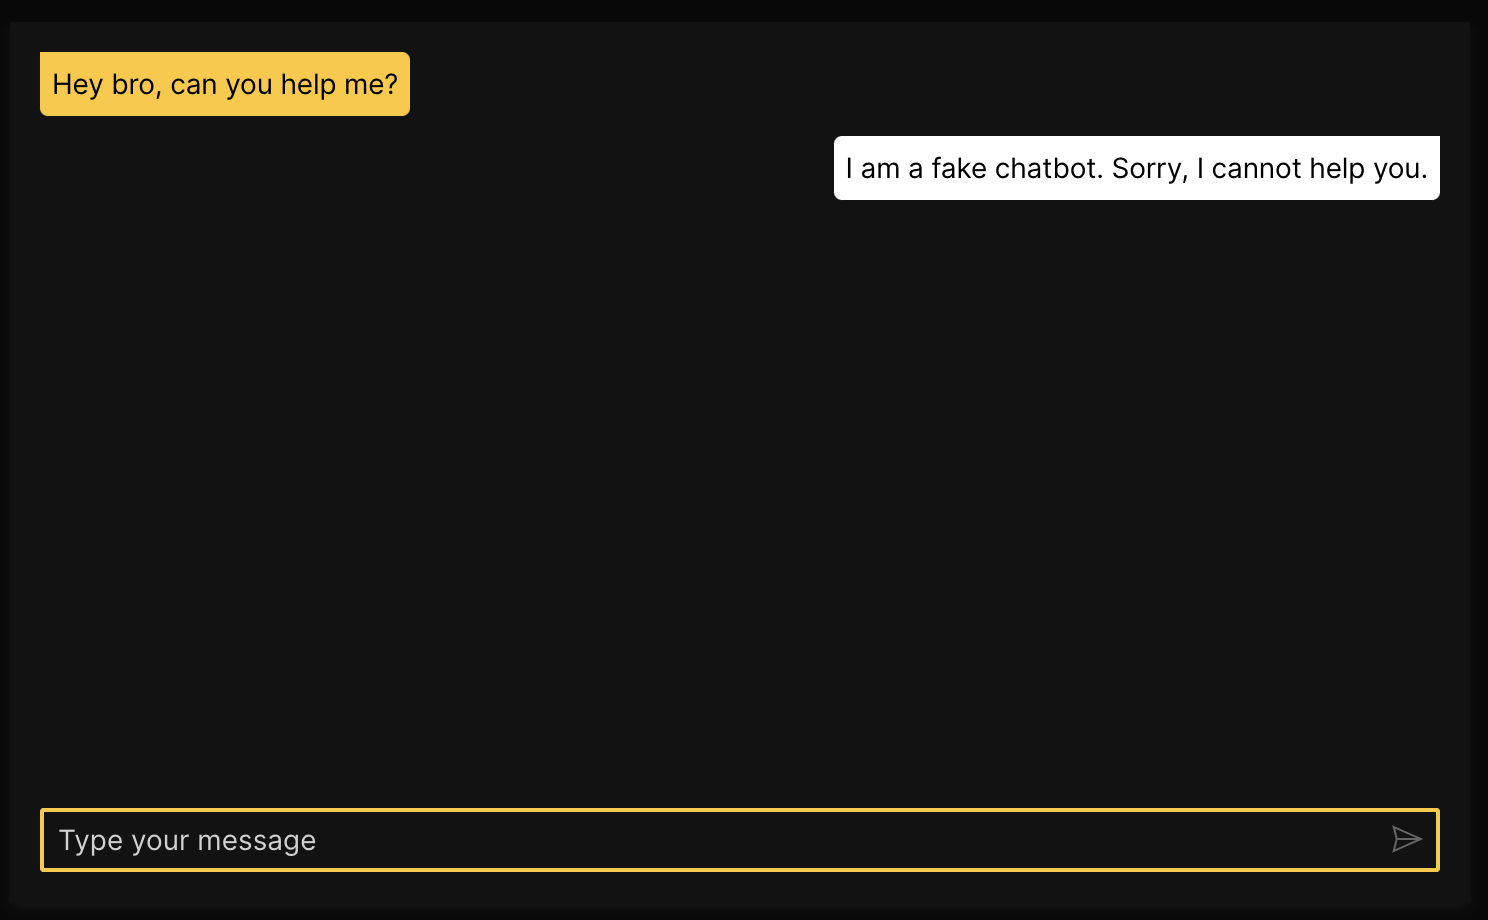
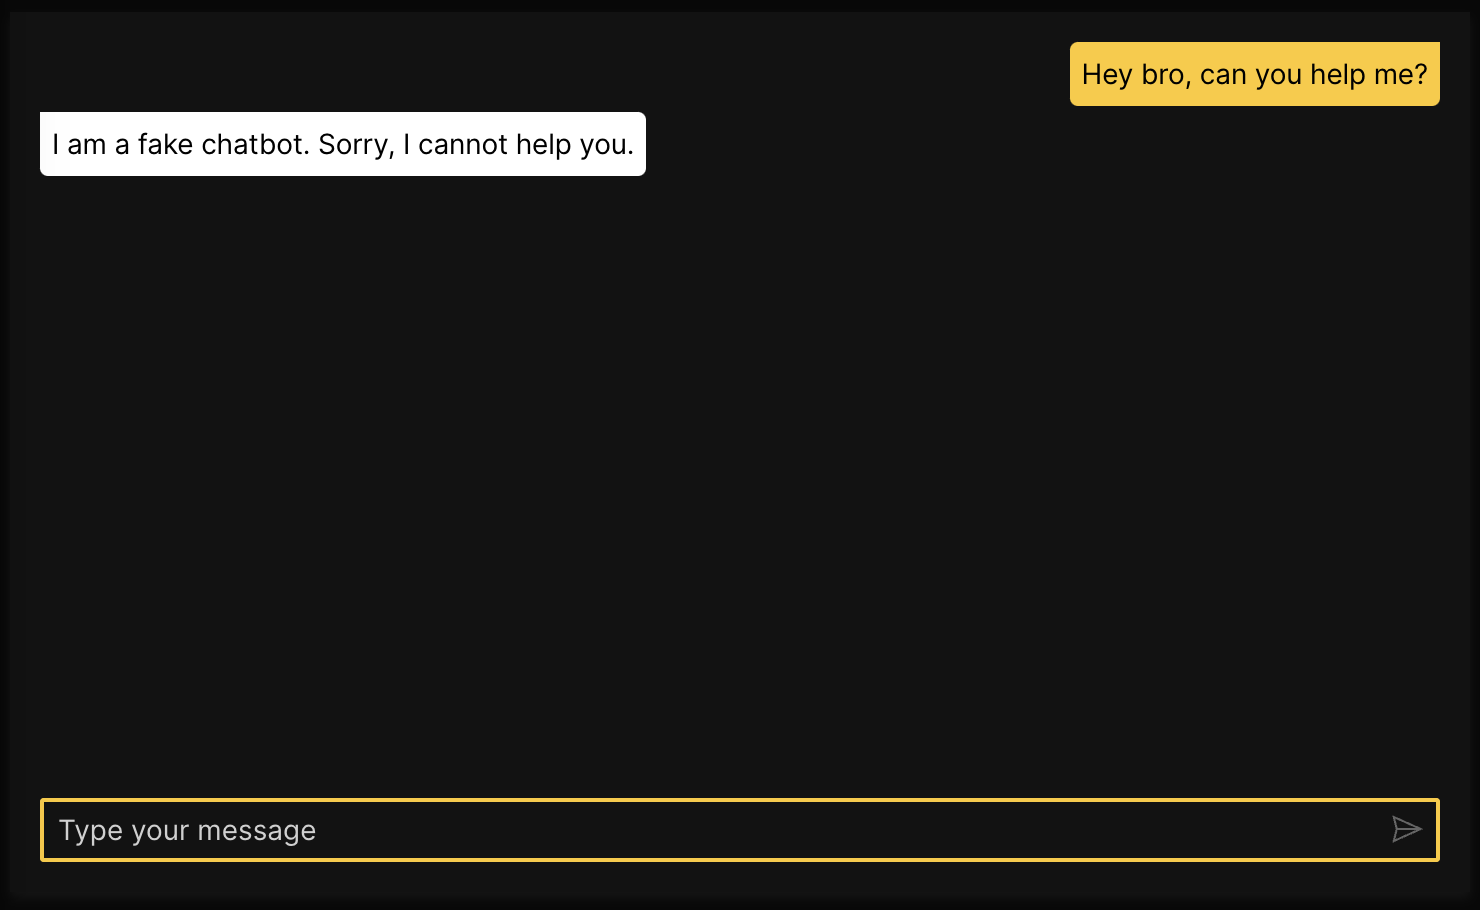
chore: Swap user and bot sides in ui.chatbot #1983 (#1995)

Changed region(s): [[0.5595, 0.0308, 0.9946, 0.2154], [0.0, 0.0308, 0.4351, 0.2154], [0.0311, 0.8615, 0.9946, 0.9538]]

diff --git a/ui/src/chatbot.test.tsx b/ui/src/chatbot.test.tsx
@@ -138,8 +138,8 @@ describe('XChatbot', () => {
     const { container } = render(<XChatbot model={{ name, data }} />)
 
     const messages = container.querySelectorAll('[class *="msg-"')
-    expect(window.getComputedStyle(messages[0], null).borderTopLeftRadius).toEqual('0px')
-    expect(window.getComputedStyle(messages[1], null).borderTopRightRadius).toEqual('0px')
+    expect(window.getComputedStyle(messages[0], null).borderTopRightRadius).toEqual('0px')
+    expect(window.getComputedStyle(messages[1], null).borderTopLeftRadius).toEqual('0px')
   })
 
   it('Renders properly rounded corners - 2 continuous messages', () => {
@@ -151,14 +151,14 @@ describe('XChatbot', () => {
     ]
     const { container } = render(<XChatbot model={{ name, data }} />)
     const messages = container.querySelectorAll('[class *="msg-"')
-    expect(window.getComputedStyle(messages[0], null).borderBottomLeftRadius).toEqual('0')
-    expect(window.getComputedStyle(messages[0], null).borderTopLeftRadius).toEqual('4px')
-    expect(window.getComputedStyle(messages[1], null).borderTopLeftRadius).toEqual('0')
-    expect(window.getComputedStyle(messages[1], null).borderBottomLeftRadius).toEqual('4px')
-    expect(window.getComputedStyle(messages[2], null).borderBottomRightRadius).toEqual('0')
-    expect(window.getComputedStyle(messages[2], null).borderTopRightRadius).toEqual('4px')
-    expect(window.getComputedStyle(messages[3], null).borderTopRightRadius).toEqual('0')
-    expect(window.getComputedStyle(messages[3], null).borderBottomRightRadius).toEqual('4px')
+    expect(window.getComputedStyle(messages[0], null).borderBottomRightRadius).toEqual('0')
+    expect(window.getComputedStyle(messages[0], null).borderTopRightRadius).toEqual('4px')
+    expect(window.getComputedStyle(messages[1], null).borderTopRightRadius).toEqual('0')
+    expect(window.getComputedStyle(messages[1], null).borderBottomRightRadius).toEqual('4px')
+    expect(window.getComputedStyle(messages[2], null).borderBottomLeftRadius).toEqual('0')
+    expect(window.getComputedStyle(messages[2], null).borderTopLeftRadius).toEqual('4px')
+    expect(window.getComputedStyle(messages[3], null).borderTopLeftRadius).toEqual('0')
+    expect(window.getComputedStyle(messages[3], null).borderBottomLeftRadius).toEqual('4px')
   })
 
   it('Renders properly rounded corners - 2+ continuous messages', () => {
@@ -172,18 +172,18 @@ describe('XChatbot', () => {
     ]
     const { container } = render(<XChatbot model={{ name, data }} />)
     const messages = container.querySelectorAll('[class *="msg-"')
-    expect(window.getComputedStyle(messages[0], null).borderBottomLeftRadius).toEqual('0')
-    expect(window.getComputedStyle(messages[0], null).borderTopLeftRadius).toEqual('4px')
+    expect(window.getComputedStyle(messages[0], null).borderBottomRightRadius).toEqual('0')
     expect(window.getComputedStyle(messages[0], null).borderTopRightRadius).toEqual('4px')
-    expect(window.getComputedStyle(messages[1], null).borderTopLeftRadius).toEqual('0')
-    expect(window.getComputedStyle(messages[1], null).borderBottomLeftRadius).toEqual('0')
-    expect(window.getComputedStyle(messages[2], null).borderTopLeftRadius).toEqual('0')
-    expect(window.getComputedStyle(messages[2], null).borderBottomLeftRadius).toEqual('4px')
-    expect(window.getComputedStyle(messages[3], null).borderBottomRightRadius).toEqual('0')
-    expect(window.getComputedStyle(messages[3], null).borderTopRightRadius).toEqual('4px')
-    expect(window.getComputedStyle(messages[4], null).borderTopRightRadius).toEqual('0')
-    expect(window.getComputedStyle(messages[4], null).borderBottomRightRadius).toEqual('0')
-    expect(window.getComputedStyle(messages[5], null).borderTopRightRadius).toEqual('0')
-    expect(window.getComputedStyle(messages[5], null).borderBottomRightRadius).toEqual('4px')
+    expect(window.getComputedStyle(messages[0], null).borderTopLeftRadius).toEqual('4px')
+    expect(window.getComputedStyle(messages[1], null).borderTopRightRadius).toEqual('0')
+    expect(window.getComputedStyle(messages[1], null).borderBottomRightRadius).toEqual('0')
+    expect(window.getComputedStyle(messages[2], null).borderTopRightRadius).toEqual('0')
+    expect(window.getComputedStyle(messages[2], null).borderBottomRightRadius).toEqual('4px')
+    expect(window.getComputedStyle(messages[3], null).borderBottomLeftRadius).toEqual('0')
+    expect(window.getComputedStyle(messages[3], null).borderTopLeftRadius).toEqual('4px')
+    expect(window.getComputedStyle(messages[4], null).borderTopLeftRadius).toEqual('0')
+    expect(window.getComputedStyle(messages[4], null).borderBottomLeftRadius).toEqual('0')
+    expect(window.getComputedStyle(messages[5], null).borderTopLeftRadius).toEqual('0')
+    expect(window.getComputedStyle(messages[5], null).borderBottomLeftRadius).toEqual('4px')
   })
 })

diff --git a/ui/src/chatbot.tsx b/ui/src/chatbot.tsx
@@ -45,13 +45,13 @@ const
       padding: 6,
       borderRadius: 4,
       maxWidth: '65ch',
-      borderTopRightRadius: 0,
+      borderTopLeftRadius: 0,
       textAlign: 'left',
     },
     userMsg: {
       backgroundColor: cssVar('$themePrimary'),
-      borderTopRightRadius: 4,
-      borderTopLeftRadius: 0,
+      borderTopLeftRadius: 4,
+      borderTopRightRadius: 0,
     },
     msgWrapper: {
       '&:first-child': { marginTop: important(px(0)) },
@@ -59,16 +59,16 @@ const
   }),
   getCornerStyle = (prev?: B, curr?: B, next?: B): React.CSSProperties | undefined => {
     // First.
-    if (curr && curr !== prev && curr === next) return { borderBottomLeftRadius: 0, borderTopLeftRadius: 4 }
-    if (!curr && curr !== prev && curr === next) return { borderBottomRightRadius: 0, borderTopRightRadius: 4 }
+    if (curr && curr !== prev && curr === next) return { borderBottomRightRadius: 0, borderTopRightRadius: 4 }
+    if (!curr && curr !== prev && curr === next) return { borderBottomLeftRadius: 0, borderTopLeftRadius: 4 }
 
     // Middle.
-    if (curr && prev === curr && curr === next) return { borderTopLeftRadius: 0, borderBottomLeftRadius: 0 }
-    if (!curr && prev === curr && curr === next) return { borderTopRightRadius: 0, borderBottomRightRadius: 0 }
+    if (curr && prev === curr && curr === next) return { borderTopRightRadius: 0, borderBottomRightRadius: 0 }
+    if (!curr && prev === curr && curr === next) return { borderTopLeftRadius: 0, borderBottomLeftRadius: 0 }
 
     // Last.
-    if (curr && prev === curr && curr !== next) return { borderTopLeftRadius: 0, borderBottomLeftRadius: 4 }
-    if (!curr && prev === curr && curr !== next) return { borderTopRightRadius: 0, borderBottomRightRadius: 4 }
+    if (curr && prev === curr && curr !== next) return { borderTopRightRadius: 0, borderBottomRightRadius: 4 }
+    if (!curr && prev === curr && curr !== next) return { borderTopLeftRadius: 0, borderBottomLeftRadius: 4 }
   }
 
 type ChatMessage = { msg: S, fromUser: B }
@@ -112,8 +112,8 @@ export const XChatbot = ({ model }: { model: Chatbot }) => {
             key={idx}
             className={css.msgWrapper}
             style={{
-              marginTop: msgs[idx - 1]?.fromUser !== fromUser ? 10 : 3,
-              textAlign: fromUser ? 'left' : 'right',
+              marginTop: msgs[idx - 1]?.fromUser !== fromUser ? 3 : 10,
+              textAlign: fromUser ? 'right' : 'left',
               color: getContrast(fromUser ? '$themePrimary' : '$text')
             }} >
             <span
